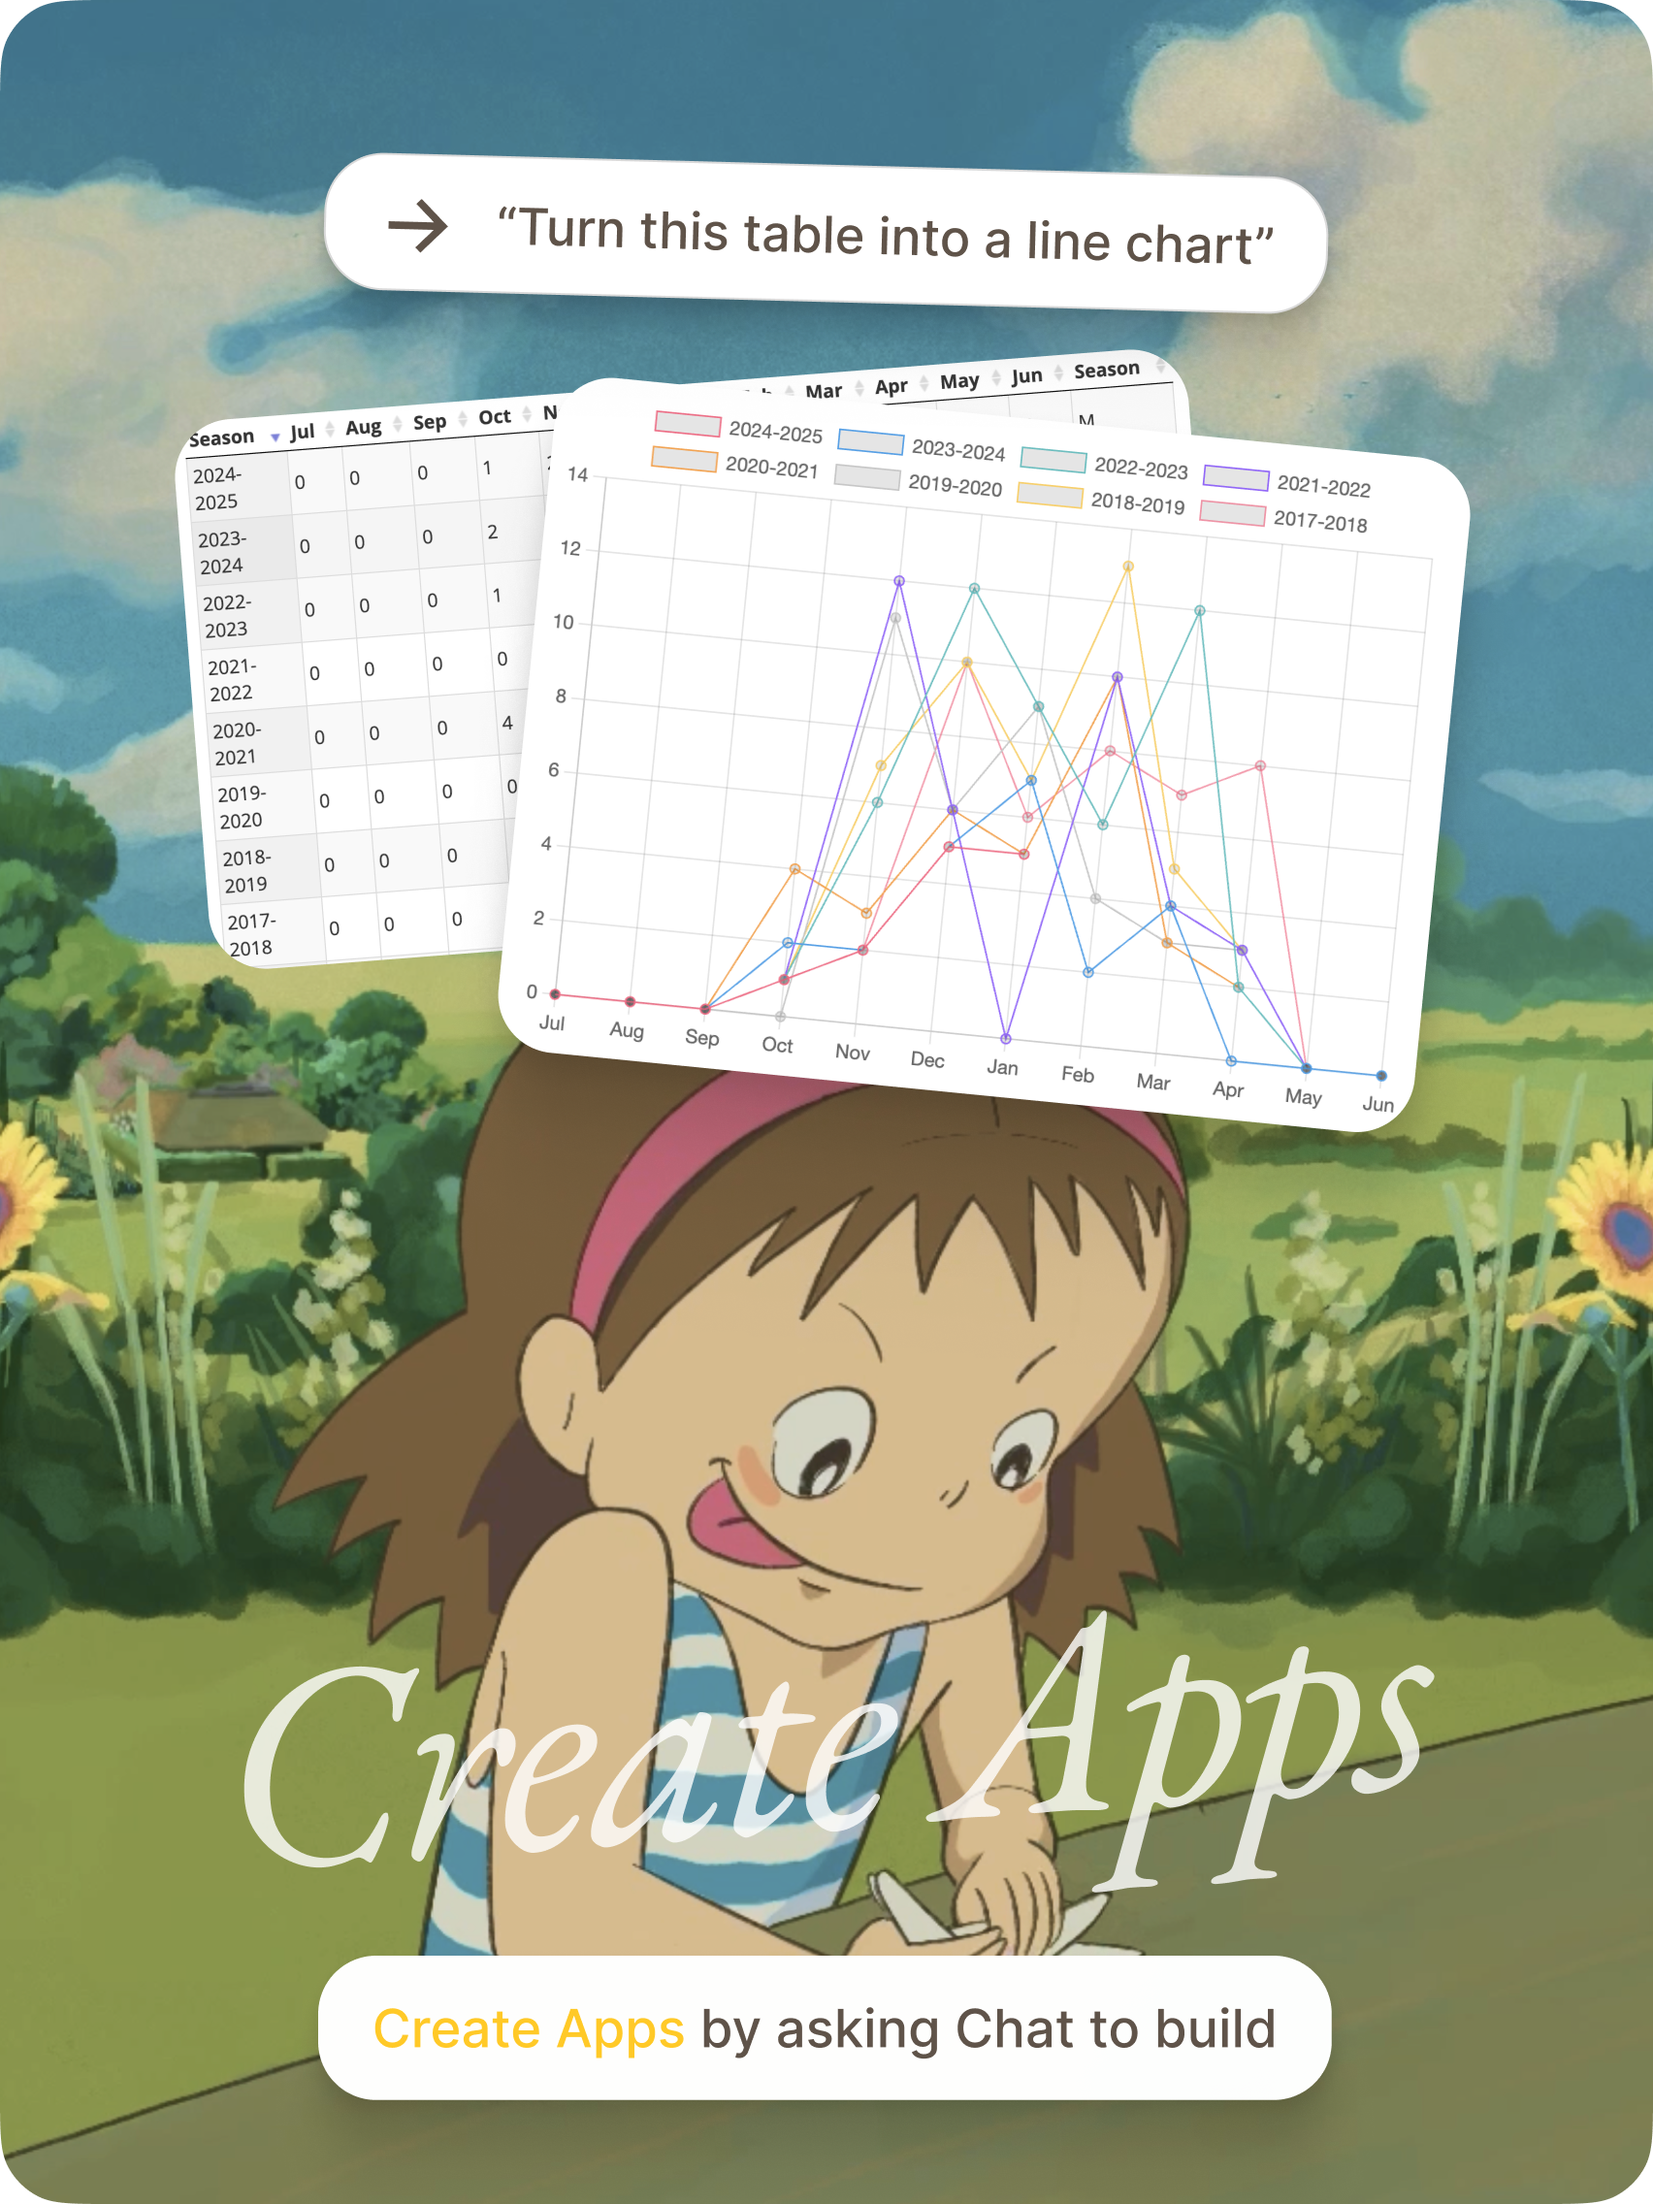
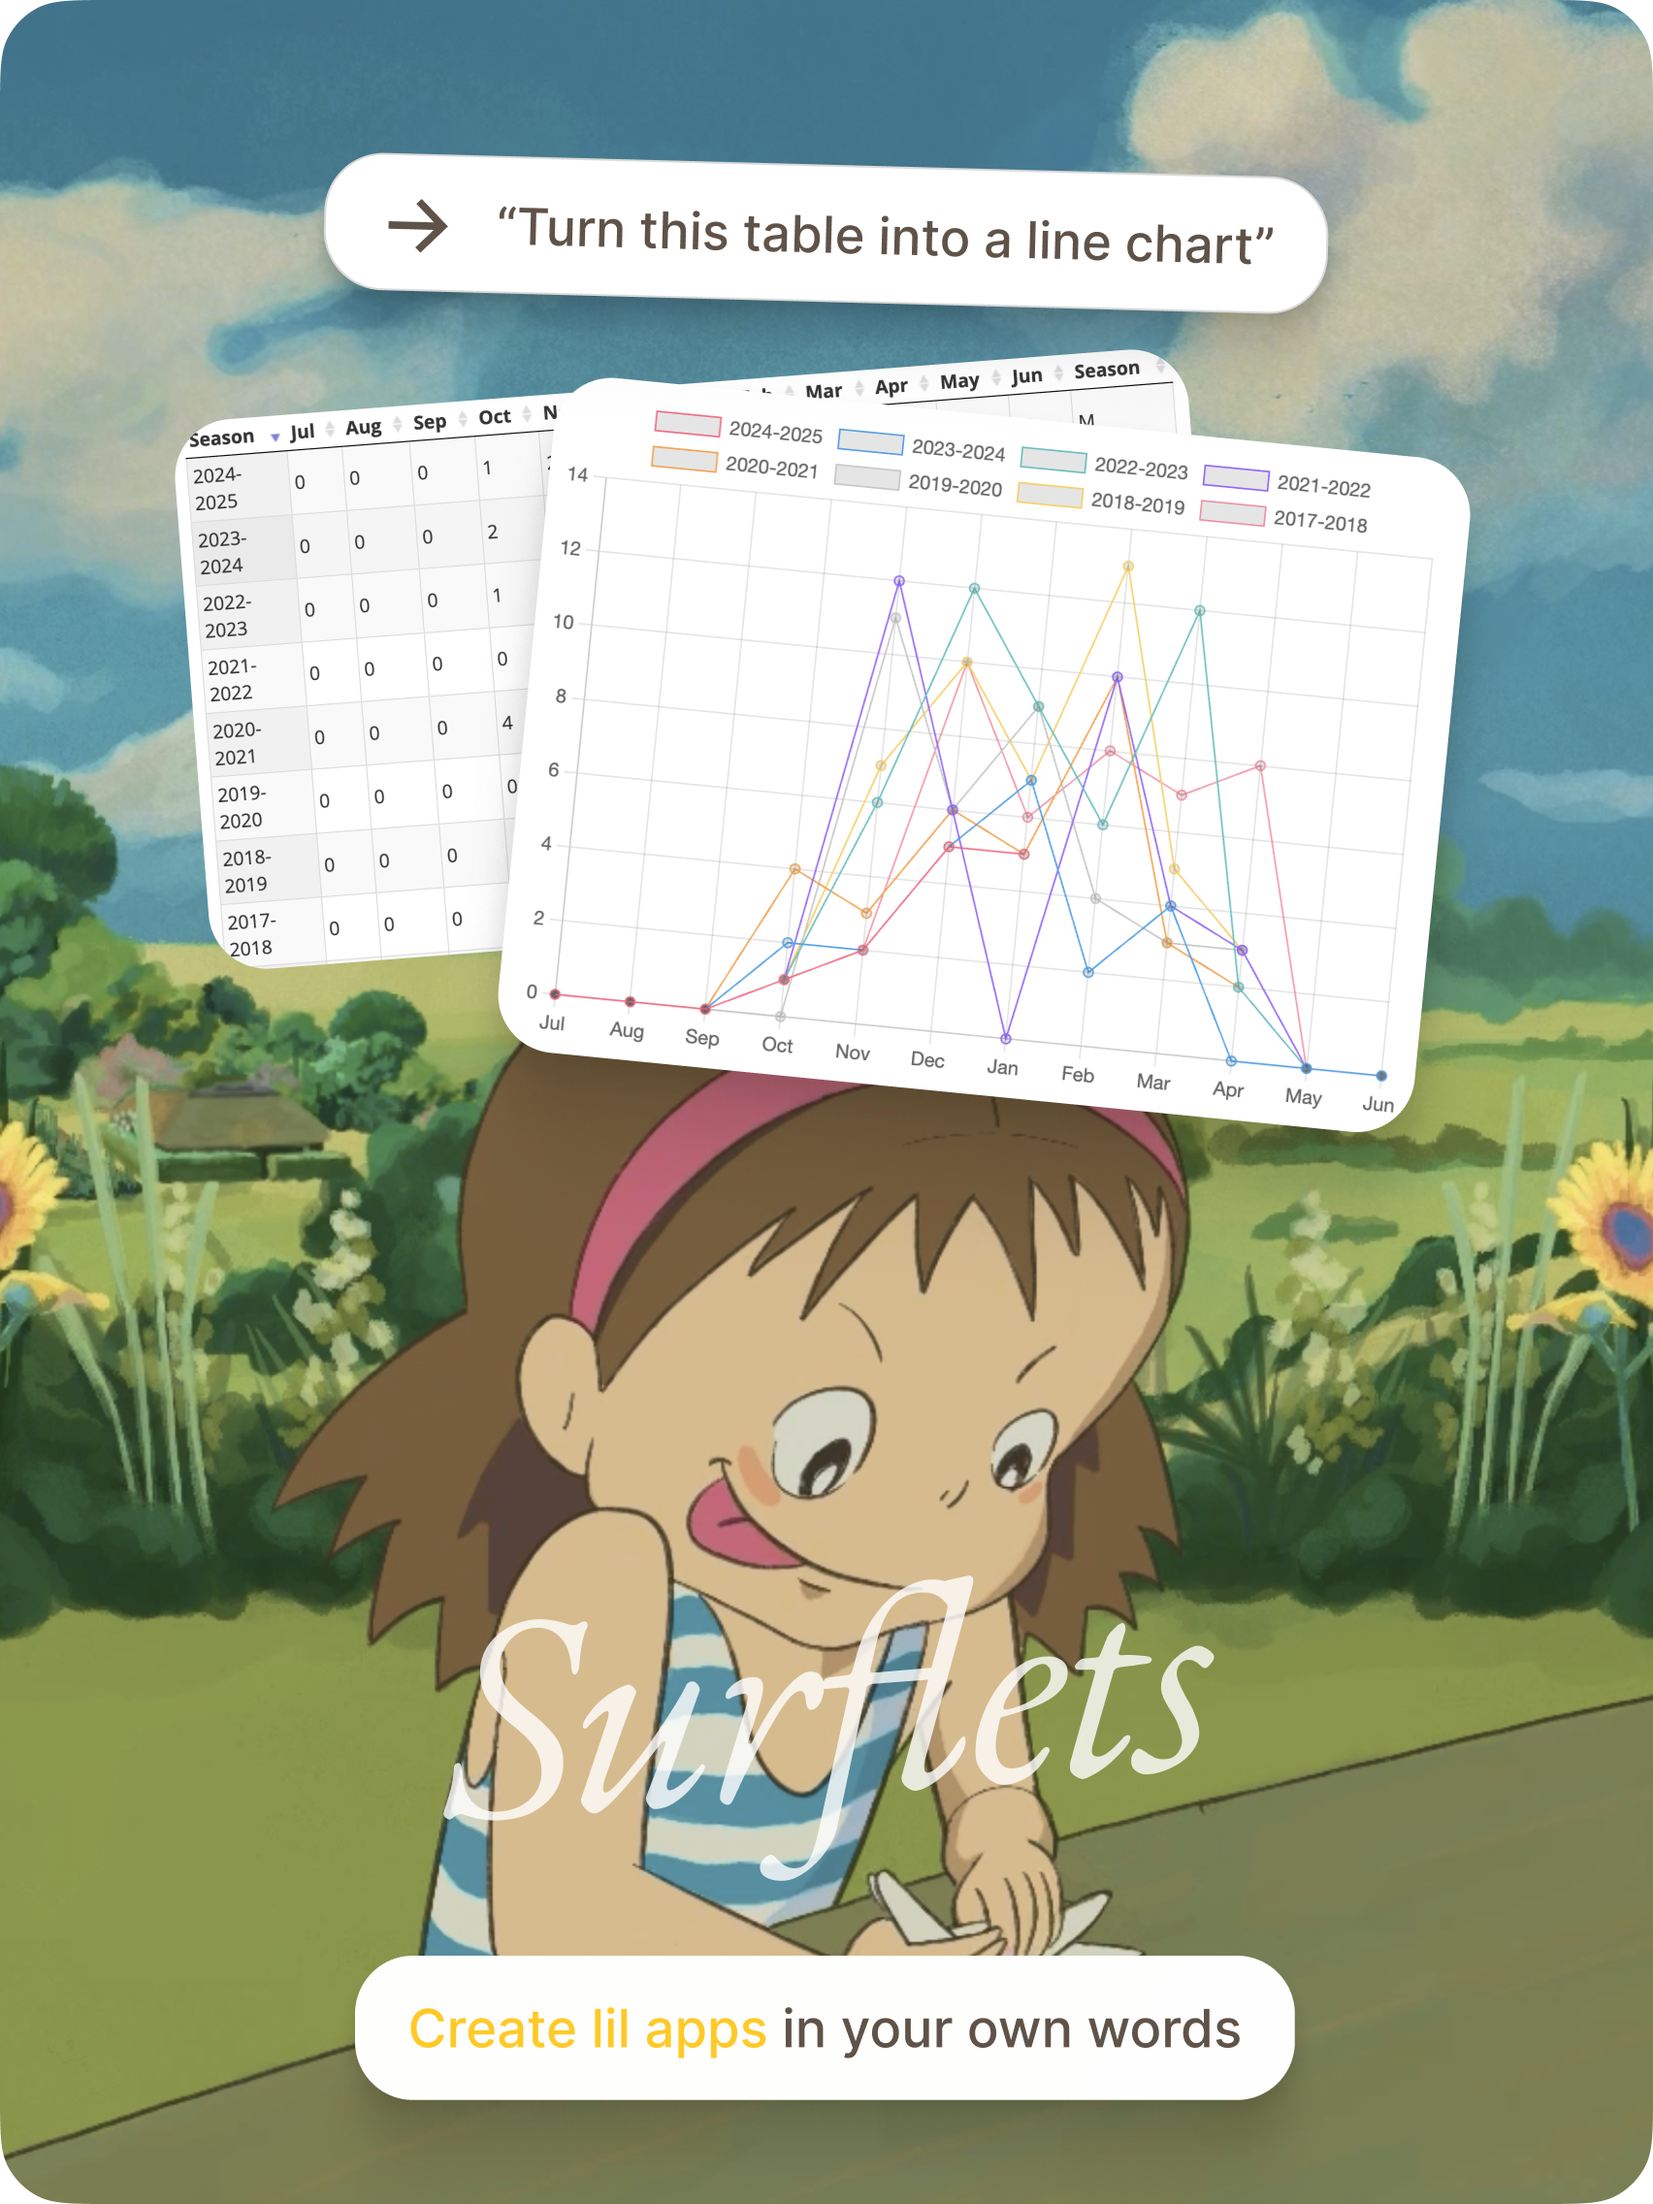
rename Artifacts to Surflets because idk (#1366)
* rename Artifacts to Surflets because idk

* change copy

* copy

* replace images

Changed region(s): [[0.1866, 0.7188, 0.8709, 0.9688], [0.1244, 0.75, 0.2488, 0.8438]]

diff --git a/packages/core/src/lib/components/Onboarding/featured.ts b/packages/core/src/lib/components/Onboarding/featured.ts
@@ -16,14 +16,14 @@ export interface VersionContent {
 
 export const versions: VersionContent[] = [
   {
-    label: 'Generate Artifacts',
+    label: 'Surflets',
     featureID: '0.2.0',
     current: true,
     emoji: '',
-    title: 'Generating your own Artifacts, now in Surf',
+    title: 'Introducing Surflets',
     description:
-      'Our chat features (vision & sidebar) have gotten code-generation capabilities! Allowing you to create interactive artifacts like mini apps, charts and more, with a single prompt. ',
-    buttonText: 'Try Creating Artifacts',
+      'Our chat features (vision & sidebar) have gotten code-generation capabilities! Allowing you to create interactive "Surflets" like mini apps, charts and more, with a single prompt. ',
+    buttonText: 'Learn More',
     image: teaser020apps,
     // @ts-ignore
     action: () => window.showCodegenOnboarding()

diff --git a/packages/core/src/lib/components/Onboarding/sections/08.Codegen.svelte b/packages/core/src/lib/components/Onboarding/sections/08.Codegen.svelte
@@ -51,10 +51,11 @@
       <h1
         class="font-gambarino text-3xl md:!text-5xl text-center text-white leading-tight [text-shadow:0_1px_2px_rgba(0,0,0,0.1)]"
       >
-        Generate your own Artifacts
+        Introducing Surflets
       </h1>
       <p class="text-center text-lg md:!text-xl text-white [text-shadow:0_1px_2px_rgba(0,0,0,0.1)]">
-        Draw a rectangle and ask to build an artifact or generate them directly in Chat.
+        Draw a rectangle, ask to build an interactive demo and watch as Surf turns the image into a
+        usable "Surflet".
       </p>
       <Button on:click={handleTryVision}>Try it out</Button>
       <p class="text-center text-sm md:!text-md text-white [text-shadow:0_1px_2px_rgba(0,0,0,0.1)]">

diff --git a/apps/desktop/src/renderer/src/Settings.svelte b/apps/desktop/src/renderer/src/Settings.svelte
@@ -474,7 +474,7 @@
           <SettingsOption
             icon="sidebar.right"
             title="Annotations Sidebar"
-            description="Enable the annotations sidebar where you can link artifacts and annotations to websites to easily revisit them from the sidebar."
+            description="Enable the annotations sidebar where you can link Surflets and annotations to websites to easily revisit them from the sidebar."
             bind:value={userConfigSettings.annotations_sidebar}
             on:update={handleSettingsUpdate}
           />

diff --git a/packages/core/src/lib/components/Core/TabOnboarding.svelte b/packages/core/src/lib/components/Core/TabOnboarding.svelte
@@ -76,7 +76,7 @@
     { id: 'vision', label: 'Vision' },
     { id: 'chat', label: 'Chat' },
     { id: 'smart-notes', label: 'Smart Notes' },
-    { id: 'artifacts', label: 'Artifacts' }
+    { id: 'surflets', label: 'Surflets' }
     // { id: 'contexts', label: 'Contexts' }
   ]
 
@@ -338,7 +338,7 @@
       <SmartNotesSection {modShortcut} on:highlightWebviewText on:seekToTimestamp />
     </section>
 
-    <section id="artifacts">
+    <section id="surflets">
       <Codegen {modShortcut} on:tryVision={handleTryVision} />
     </section>
 

diff --git a/packages/core/src/lib/utils/resourcePreview.ts b/packages/core/src/lib/utils/resourcePreview.ts
@@ -419,7 +419,7 @@ export const getResourcePreview = async (resource: Resource, opts?: PreviewOptio
         image: undefined,
         url: canonicalUrl ?? parseStringIntoUrl(resource.metadata?.sourceURI ?? '')?.href ?? '',
         source: {
-          text: hostname ? `Generated on ${hostname}` : 'Artifact',
+          text: hostname ? `Generated on ${hostname}` : 'Surflet',
           imageUrl: undefined,
           icon: 'code-block'
         },

diff --git a/packages/core/src/lib/components/Chat/CodeRenderer.svelte b/packages/core/src/lib/components/Chat/CodeRenderer.svelte
@@ -900,7 +900,7 @@
             {:else if isHTML}
               {#if showPreview}
                 <button
-                  use:tooltip={{ text: 'Reload Artifact', position: 'left' }}
+                  use:tooltip={{ text: 'Reload', position: 'left' }}
                   class="flex items-center p-1 rounded-md transition-colors"
                   on:click={() => reloadApp()}
                 >

diff --git a/packages/core/src/lib/components/Oasis/OasisSpace.svelte b/packages/core/src/lib/components/Oasis/OasisSpace.svelte
@@ -277,7 +277,7 @@
             )
           } else if ($selectedFilterType.id === 'links') {
             return resource.type.startsWith('application/vnd.space.')
-          } else if ($selectedFilterType.id === 'artifacts') {
+          } else if ($selectedFilterType.id === 'surflets') {
             return isGeneratedResource(resource)
           } else {
             return true

diff --git a/packages/core/src/lib/components/Browser.svelte b/packages/core/src/lib/components/Browser.svelte
@@ -3069,7 +3069,7 @@
     window.showCodegenOnboarding = async () => {
       const newTab = await tabsManager.create<TabResource>(
         {
-          title: 'Surf Artifacts',
+          title: 'Surf Surflets',
           icon: '',
           type: 'resource',
           resourceId: 'onboarding-codegen',

diff --git a/packages/core/src/lib/constants/resourceFilters.ts b/packages/core/src/lib/constants/resourceFilters.ts
@@ -56,8 +56,8 @@ export const RESOURCE_FILTERS: FilterItem[] = [
   //   tags: [...filterDocumentTags('prefix')]
   // },
   {
-    id: 'generated',
-    label: 'Artifacts',
+    id: 'surflets',
+    label: 'Surflets',
     tags: [...filterGeneratedArtifactsTags()]
   },
   // {

diff --git a/packages/core/src/lib/constants/codegen/00.onboarding.md b/packages/core/src/lib/constants/codegen/00.onboarding.md
@@ -1,19 +1,19 @@
 ---
 id: intro
-title: Create Personal Artifacts with Surf
+title: 'Introducing Surflets: Code Generation in Surf'
 ---
 
 <img src="codegen.png" />
 
 <p></p>
 
-Welcome to Code Generation in Surf! This is a feature we have been thinking about for a long time, and we are excited to finally share it with you.
+Welcome to Code Generation in Surf! This is a feature we have been thinking about for a long time, and we are excited to finally share it with you ✨
 
 <p></p>
 
-# Using Code Generation with the Vision tool.
+# 📸 Using Surflets with the Vision Tool
 
-The idea is that you can use anything that you can see as an input to create some very cool interactive little Artifacts. Let's pick this table for example:
+The idea is that you can use anything that you can see as an input to create some very cool interactive little Surflets. Let's pick this table for example:
 You can ask it to:
 
 > 'build an interactive chart from that data.'
@@ -29,9 +29,9 @@ Use `CMD` / `CTRL` + `Shift` + `1` to open the vision picker to get started.
 <hr>
 <p></p>
 
-# Using Artifacts within Sidebar Chat.
+# 💬 Using Surflets within Sidebar Chat
 
-You can also start generating an artifact by asking the chat itself. You are also able to save an artifact in your stuff or directly as a note.
+You can also start generating an Surflet by asking the chat itself. You are also able to save an Surflet in your stuff or directly as a note.
 
 <p></p>
 
@@ -41,9 +41,9 @@ You can also start generating an artifact by asking the chat itself. You are als
 <hr>
 <p></p>
 
-# Dropping Artifacts onto notes.
+# 📝 Dropping Surflets onto Notes
 
-We think that the most powerful way to use code generation is to drop artifacts onto your notes. This way you can create notes and enrich them with interactive elements.
+We think that the most powerful way to use code generation is to drop Surflets onto your notes. This way you can create notes and enrich them with interactive elements.
 
 <p></p>
 
@@ -57,7 +57,7 @@ The solar system example was created with the following prompt:
 <hr>
 <p></p>
 
-# Filter for all your Artifacts in Stuff
+# 🔍 Filter for all your Surflets
 
 <img src="filter.gif" />
 
